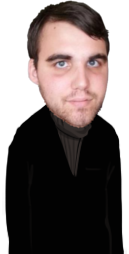
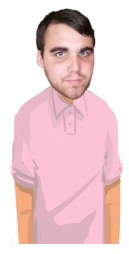
updated TopHatSammy and LeoHillBoom, added GisliT, aeniah and Mcs0083

diff --git a/index.html b/index.html
@@ -122,19 +122,19 @@
                 </div>
 
                 <div class="col-lg-8 col-lg-offset-2">
-					<p>Download the latest release from the releases page and double click cook_serve_hoomans.exe. It should automatically find the installation path of Cook, Serve, Delicious! and patch the game archive. If everything went well you should see something like this:</p>
+                    <p>Download the latest release from the releases page and double click cook_serve_hoomans.exe. It should automatically find the installation path of Cook, Serve, Delicious! and patch the game archive. If everything went well you should see something like this:</p>
                 </div>
 
                 <div class="col-lg-8 col-lg-offset-2 text-center">
-                	<p><img src="img/patch_success.png" alt=""></p>
+                    <p><img src="img/patch_success.png" alt=""></p>
                 </div>
 
                 <div class="col-lg-8 col-lg-offset-2">
-					<p>Just press enter and you are done.</p>
-					<p>To be on the safe side this patch creates a backup of the game archive (if none exist already). The backup will be placed in the same folder as the game archive (data.win on Windows and game.unx on Linux) and will be called data.win.backup on Windows and game.unx.backup on Linux. If you want to remove the patch simply delete data.win/game.unx and rename the backup file.</p>
-				</div>
-			</div>
-			
+                    <p>Just press enter and you are done.</p>
+                    <p>To be on the safe side this patch creates a backup of the game archive (if none exist already). The backup will be placed in the same folder as the game archive (data.win on Windows and game.unx on Linux) and will be called data.win.backup on Windows and game.unx.backup on Linux. If you want to remove the patch simply delete data.win/game.unx and rename the backup file.</p>
+                </div>
+            </div>
+            
             <div class="row">
                 <div class="col-lg-12 text-center">
                     <h3>In case that didn't work</h3>
@@ -143,29 +143,29 @@
 
             <div class="row">
                 <div class="col-lg-8 col-lg-offset-2">
-					<p>In case cook_serve_hoomans.exe couldn't automatically find the game archive file you can pass it manually. First find data.win from your Cook, Serve, Delicious! installation. Under Windows data.win can usually be found at one of these or similar locations:</p>
+                    <p>In case cook_serve_hoomans.exe couldn't automatically find the game archive file you can pass it manually. First find data.win from your Cook, Serve, Delicious! installation. Under Windows data.win can usually be found at one of these or similar locations:</p>
 
-					<pre>C:\Program Files\Steam\steamapps\common\CookServeDelicious\data.win
+                    <pre>C:\Program Files\Steam\steamapps\common\CookServeDelicious\data.win
 C:\Program Files (x86)\Steam\steamapps\common\CookServeDelicious\data.win</pre>
 
-					<p>Under Linux it would be:</p>
+                    <p>Under Linux it would be:</p>
 
-					<pre>~/.local/share/Steam/SteamApps/common/CookServeDelicious/assets/game.unx
+                    <pre>~/.local/share/Steam/SteamApps/common/CookServeDelicious/assets/game.unx
 ~/.steam/steam/SteamApps/common/CookServeDelicious/assets/game.unx</pre>
 
-					<p>I don't have a Mac so I don't know where it's there and I can't provide a binary for Mac anyway. (I don't use Windows either, but it is easily possible to cross compile a Windows binary under Linux.)</p>
+                    <p>I don't have a Mac so I don't know where it's there and I can't provide a binary for Mac anyway. (I don't use Windows either, but it is easily possible to cross compile a Windows binary under Linux.)</p>
 
-					<p>Then simply drag and drop data.win onto cook_serve_hoomans.exe:</p>
-				</div>
+                    <p>Then simply drag and drop data.win onto cook_serve_hoomans.exe:</p>
+                </div>
 
                 <div class="col-lg-8 col-lg-offset-2 text-center">
-                	<p><img src="img/open_with_cook_serve_hoomans.png" alt=""></p>
+                    <p><img src="img/open_with_cook_serve_hoomans.png" alt=""></p>
                 </div>
 
                 <div class="col-lg-8 col-lg-offset-2">
-					<p>If everything went well you should see the same dialog as above.</p>
-				</div>
-			</div>
+                    <p>If everything went well you should see the same dialog as above.</p>
+                </div>
+            </div>
         </div>
     </section>
 
@@ -179,6 +179,17 @@ C:\Program Files (x86)\Steam\steamapps\common\CookServeDelicious\data.win</pre>
                 </div>
             </div>
             <div class="row">
+                <div class="col-sm-4 hoomans-item">
+                    <a href="#hoomans_aeniah" class="hoomans-link" data-toggle="modal">
+                        <div class="caption">
+                            <div class="caption-content">
+                                <i class="fa fa-search-plus fa-3x"></i>
+                            </div>
+                        </div>
+                        <img src="img/hoomans/aeniah.png" class="img-responsive" alt="">
+                        <div class="hooman-label">aeniah</div>
+                    </a>
+                </div>
                 <div class="col-sm-4 hoomans-item">
                     <a href="#hoomans_Alegna" class="hoomans-link" data-toggle="modal">
                         <div class="caption">
@@ -426,6 +437,17 @@ C:\Program Files (x86)\Steam\steamapps\common\CookServeDelicious\data.win</pre>
                     </a>
                 </div>
                 <div class="col-sm-4 hoomans-item">
+                    <a href="#hoomans_GisliT" class="hoomans-link" data-toggle="modal">
+                        <div class="caption">
+                            <div class="caption-content">
+                                <i class="fa fa-search-plus fa-3x"></i>
+                            </div>
+                        </div>
+                        <img src="img/hoomans/GisliT.png" class="img-responsive" alt="">
+                        <div class="hooman-label">GisliT</div>
+                    </a>
+                </div>
+                <div class="col-sm-4 hoomans-item">
                     <a href="#hoomans_Gil_Ramirez2" class="hoomans-link" data-toggle="modal">
                         <div class="caption">
                             <div class="caption-content">
@@ -522,7 +544,7 @@ C:\Program Files (x86)\Steam\steamapps\common\CookServeDelicious\data.win</pre>
                                 <i class="fa fa-search-plus fa-3x"></i>
                             </div>
                         </div>
-                        <img src="img/hoomans/LeoHillBoom.png" class="img-responsive" alt="">
+                        <img src="img/hoomans/LeoHillBoom2.png" class="img-responsive" alt="">
                         <div class="hooman-label">LeoHillBoom</div>
                     </a>
                 </div>
@@ -742,7 +764,7 @@ C:\Program Files (x86)\Steam\steamapps\common\CookServeDelicious\data.win</pre>
                                 <i class="fa fa-search-plus fa-3x"></i>
                             </div>
                         </div>
-                        <img src="img/hoomans/TopHatSammy.png" class="img-responsive" alt="">
+                        <img src="img/hoomans/TopHatSammy2.png" class="img-responsive" alt="">
                         <div class="hooman-label">TopHatSammy</div>
                     </a>
                 </div>
@@ -837,7 +859,7 @@ C:\Program Files (x86)\Steam\steamapps\common\CookServeDelicious\data.win</pre>
                     <div class="footer-col col-lg-12 text-center">
                         <p><a href="https://github.com/panzi/cook-serve-hoomans" class="btn btn-outline"><i class="fa fa-fw fa-github"></i> fork on GitHub</a></p>
                         <p><a href="http://forums.geekandsundry.com/forums/discussion/6863/cook-serve-delicious-mod">Geek and Sundry Forum Thread</a></p>
-					</div>
+                    </div>
                 </div>
             </div>
         </div>
@@ -860,6 +882,30 @@ C:\Program Files (x86)\Steam\steamapps\common\CookServeDelicious\data.win</pre>
     </div>
 
     <!-- Hoomans -->
+    <div class="hoomans-modal modal fade" id="hoomans_aeniah" tabindex="-1" role="dialog" aria-hidden="true">
+        <div class="modal-content">
+            <div class="close-modal" data-dismiss="modal">
+                <div class="lr">
+                    <div class="rl">
+                    </div>
+                </div>
+            </div>
+            <div class="container">
+                <div class="row">
+                    <div class="col-lg-8 col-lg-offset-2">
+                        <div class="modal-body">
+                            <h2>aeniah</h2>
+                            <hr class="star-primary">
+                            <img src="img/hoomans/aeniah.png" class="img-responsive img-centered" alt="">
+                            <!-- <p>TODO</p> -->
+
+                            <button type="button" class="btn btn-default" data-dismiss="modal"><i class="fa fa-times"></i> Close</button>
+                        </div>
+                    </div>
+                </div>
+            </div>
+        </div>
+    </div>
     <div class="hoomans-modal modal fade" id="hoomans_Alegna" tabindex="-1" role="dialog" aria-hidden="true">
         <div class="modal-content">
             <div class="close-modal" data-dismiss="modal">
@@ -1419,6 +1465,30 @@ C:\Program Files (x86)\Steam\steamapps\common\CookServeDelicious\data.win</pre>
             </div>
         </div>
     </div>
+    <div class="hoomans-modal modal fade" id="hoomans_GisliT" tabindex="-1" role="dialog" aria-hidden="true">
+        <div class="modal-content">
+            <div class="close-modal" data-dismiss="modal">
+                <div class="lr">
+                    <div class="rl">
+                    </div>
+                </div>
+            </div>
+            <div class="container">
+                <div class="row">
+                    <div class="col-lg-8 col-lg-offset-2">
+                        <div class="modal-body">
+                            <h2>GisliT</h2>
+                            <hr class="star-primary">
+                            <img src="img/hoomans/GisliT.png" class="img-responsive img-centered" alt="">
+                            <!-- <p>TODO</p> -->
+
+                            <button type="button" class="btn btn-default" data-dismiss="modal"><i class="fa fa-times"></i> Close</button>
+                        </div>
+                    </div>
+                </div>
+            </div>
+        </div>
+    </div>
     <div class="hoomans-modal modal fade" id="hoomans_Gil_Ramirez2" tabindex="-1" role="dialog" aria-hidden="true">
         <div class="modal-content">
             <div class="close-modal" data-dismiss="modal">
@@ -1631,7 +1701,10 @@ C:\Program Files (x86)\Steam\steamapps\common\CookServeDelicious\data.win</pre>
                         <div class="modal-body">
                             <h2>LeoHillBoom</h2>
                             <hr class="star-primary">
-                            <img src="img/hoomans/LeoHillBoom.png" class="img-responsive img-centered" alt="">
+                            <div class="img-responsive img-centered">
+                                <img src="img/hoomans/LeoHillBoom.png" alt="">
+                                <img src="img/hoomans/LeoHillBoom2.png" alt="">
+                            </div>
                             <!-- <p>TODO</p> -->
 
                             <button type="button" class="btn btn-default" data-dismiss="modal"><i class="fa fa-times"></i> Close</button>
@@ -2132,7 +2205,10 @@ C:\Program Files (x86)\Steam\steamapps\common\CookServeDelicious\data.win</pre>
                         <div class="modal-body">
                             <h2>TopHatSammy</h2>
                             <hr class="star-primary">
-                            <img src="img/hoomans/TopHatSammy.png" class="img-responsive img-centered" alt="">
+                            <div class="img-responsive img-centered">
+                                <img src="img/hoomans/TopHatSammy.png" alt="">
+                                <img src="img/hoomans/TopHatSammy2.png" alt="">
+                            </div>
                             <!-- <p>TODO</p> -->
 
                             <button type="button" class="btn btn-default" data-dismiss="modal"><i class="fa fa-times"></i> Close</button>
